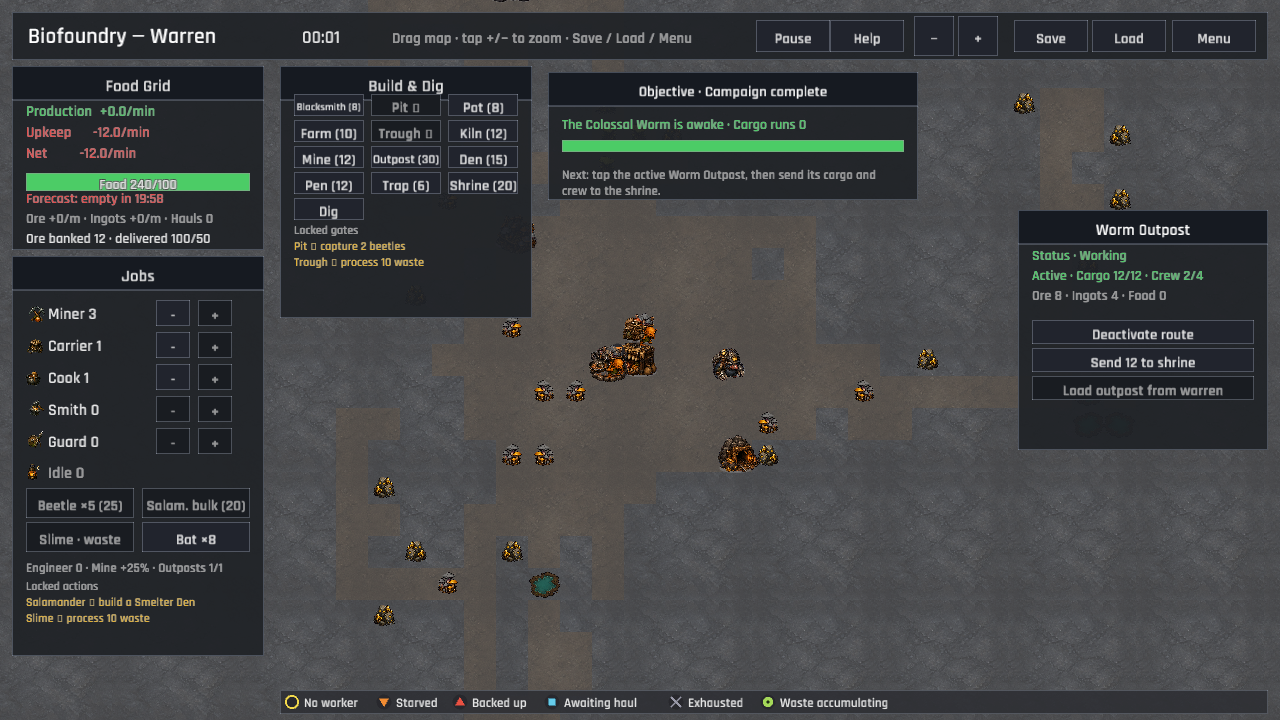
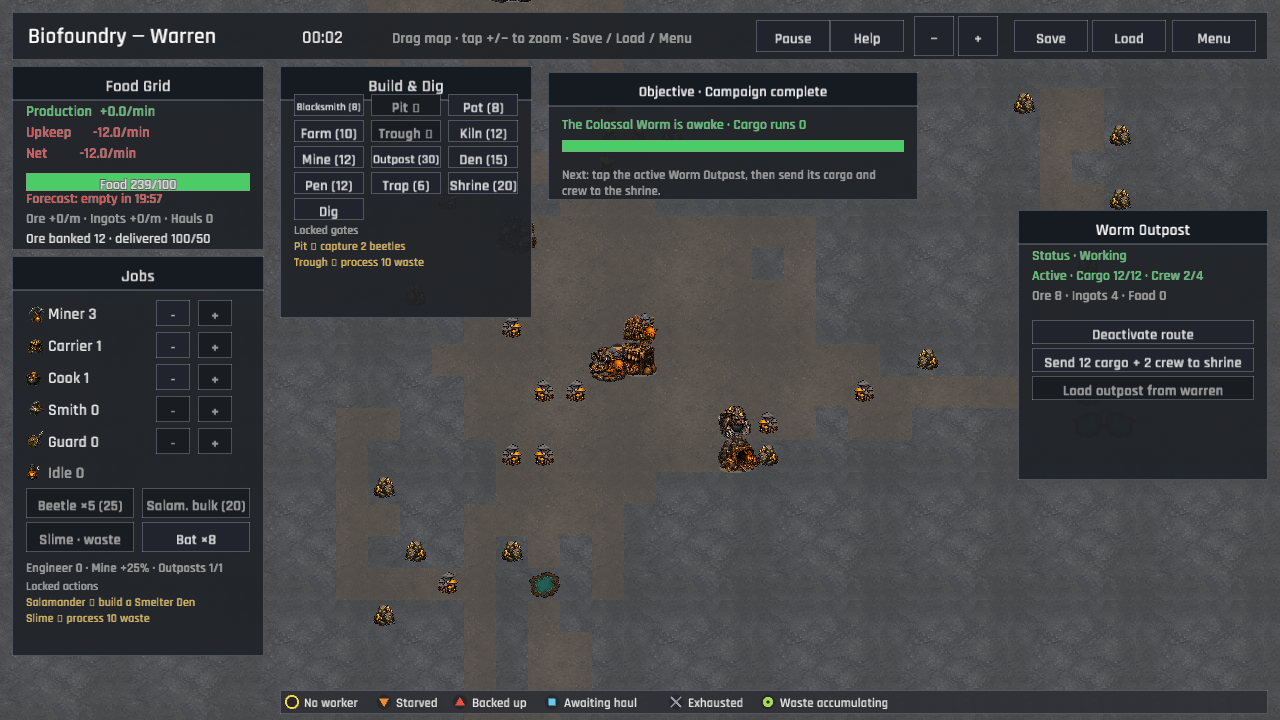
The worm names every traveler on the return tide
An outpost return button previously described only the cargo count even when crew were traveling too. The inspection card now names cargo, crew, and the shrine destination for every payload shape, with focused label coverage and refreshed endless-route captures.

diff --git a/src/ui/hud/inspect.rs b/src/ui/hud/inspect.rs
@@ -434,11 +434,7 @@ pub(super) fn draw_inspect_panel(
                 y += 28.0;
                 if active && session.worm_awake {
                     let loadable_payload = outpost_has_loadable_payload(session, data, cargo, crew);
-                    let return_label = if cargo > 0 {
-                        format!("Send {cargo} to shrine")
-                    } else {
-                        "Send crew to shrine".to_owned()
-                    };
+                    let return_label = outpost_return_label(cargo, crew);
                     if hud_button(
                         Rect::new(x, y, panel.w - 28.0, 24.0),
                         &return_label,
@@ -491,6 +487,15 @@ pub(super) fn draw_inspect_panel(
 
 fn blacksmith_queue_available(building: &Building, data: &GameData) -> bool {
     building.orders.len() < data.balance.order_queue_size
+}
+
+fn outpost_return_label(cargo: u32, crew: usize) -> String {
+    match (cargo > 0, crew > 0) {
+        (true, true) => format!("Send {cargo} cargo + {crew} crew to shrine"),
+        (true, false) => format!("Send {cargo} cargo to shrine"),
+        (false, true) => format!("Send {crew} crew to shrine"),
+        (false, false) => "Send payload to shrine".to_owned(),
+    }
 }
 
 /// Give every inspected building the same first-read answer: is it working,

diff --git a/src/ui/hud/inspect/tests.rs b/src/ui/hud/inspect/tests.rs
@@ -192,3 +192,14 @@ fn blacksmith_queue_reports_when_another_order_can_be_added() {
     }
     assert!(!blacksmith_queue_available(&shop, &data));
 }
+
+#[test]
+fn outpost_return_label_names_each_payload_kind() {
+    assert_eq!(
+        outpost_return_label(6, 4),
+        "Send 6 cargo + 4 crew to shrine"
+    );
+    assert_eq!(outpost_return_label(6, 0), "Send 6 cargo to shrine");
+    assert_eq!(outpost_return_label(0, 4), "Send 4 crew to shrine");
+    assert_eq!(outpost_return_label(0, 0), "Send payload to shrine");
+}
